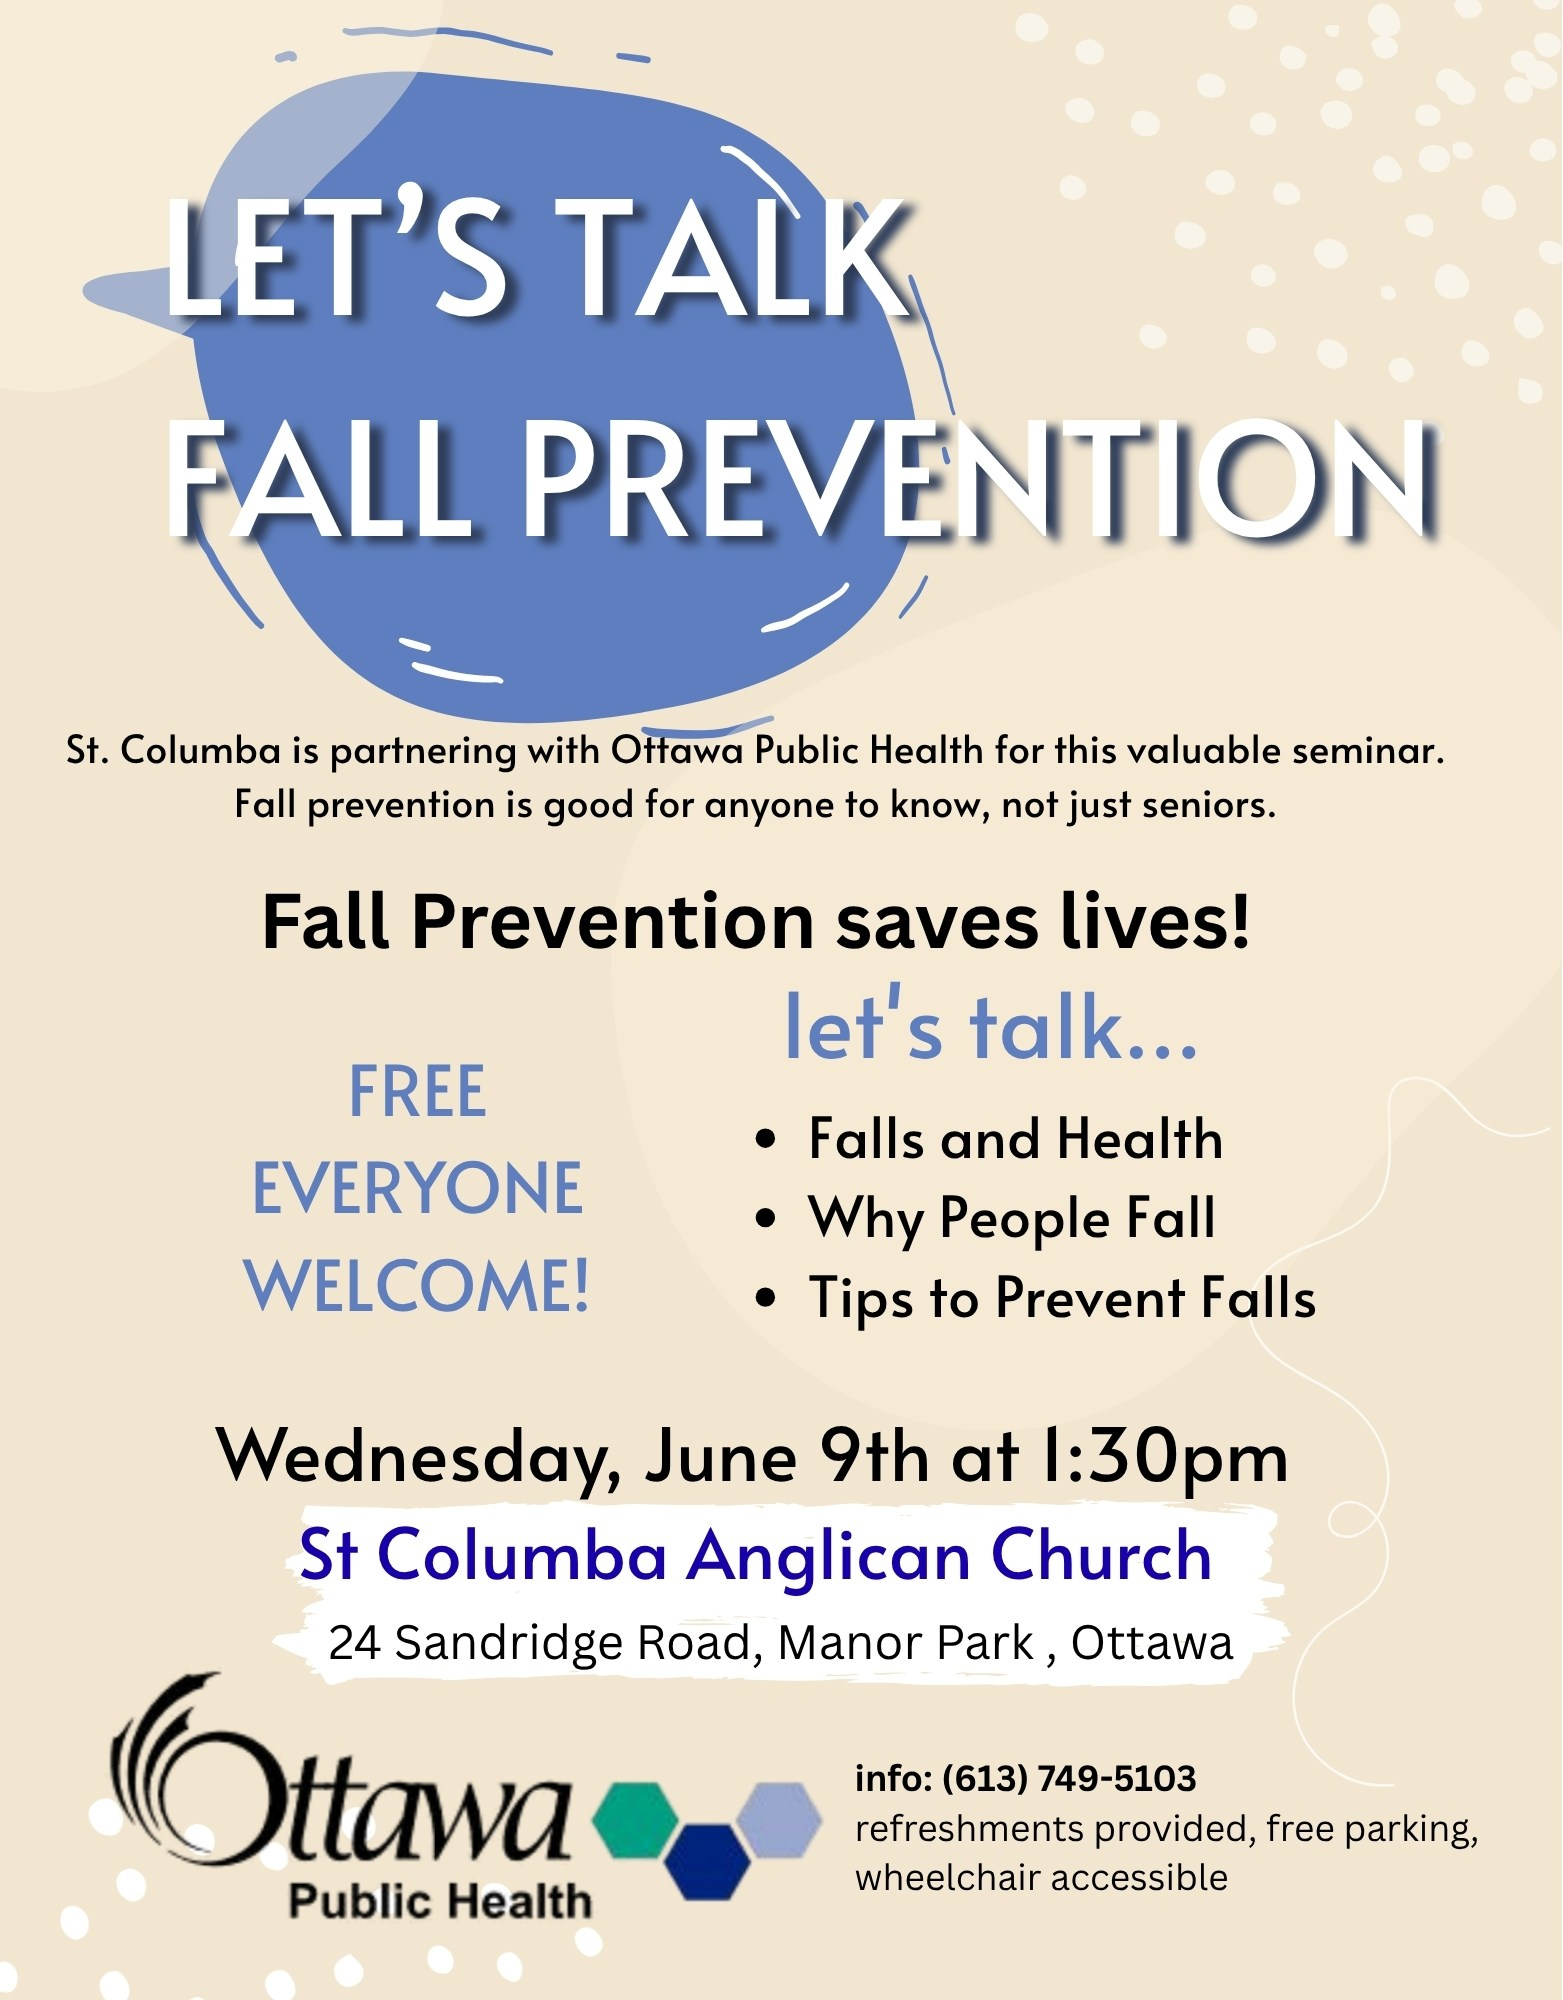
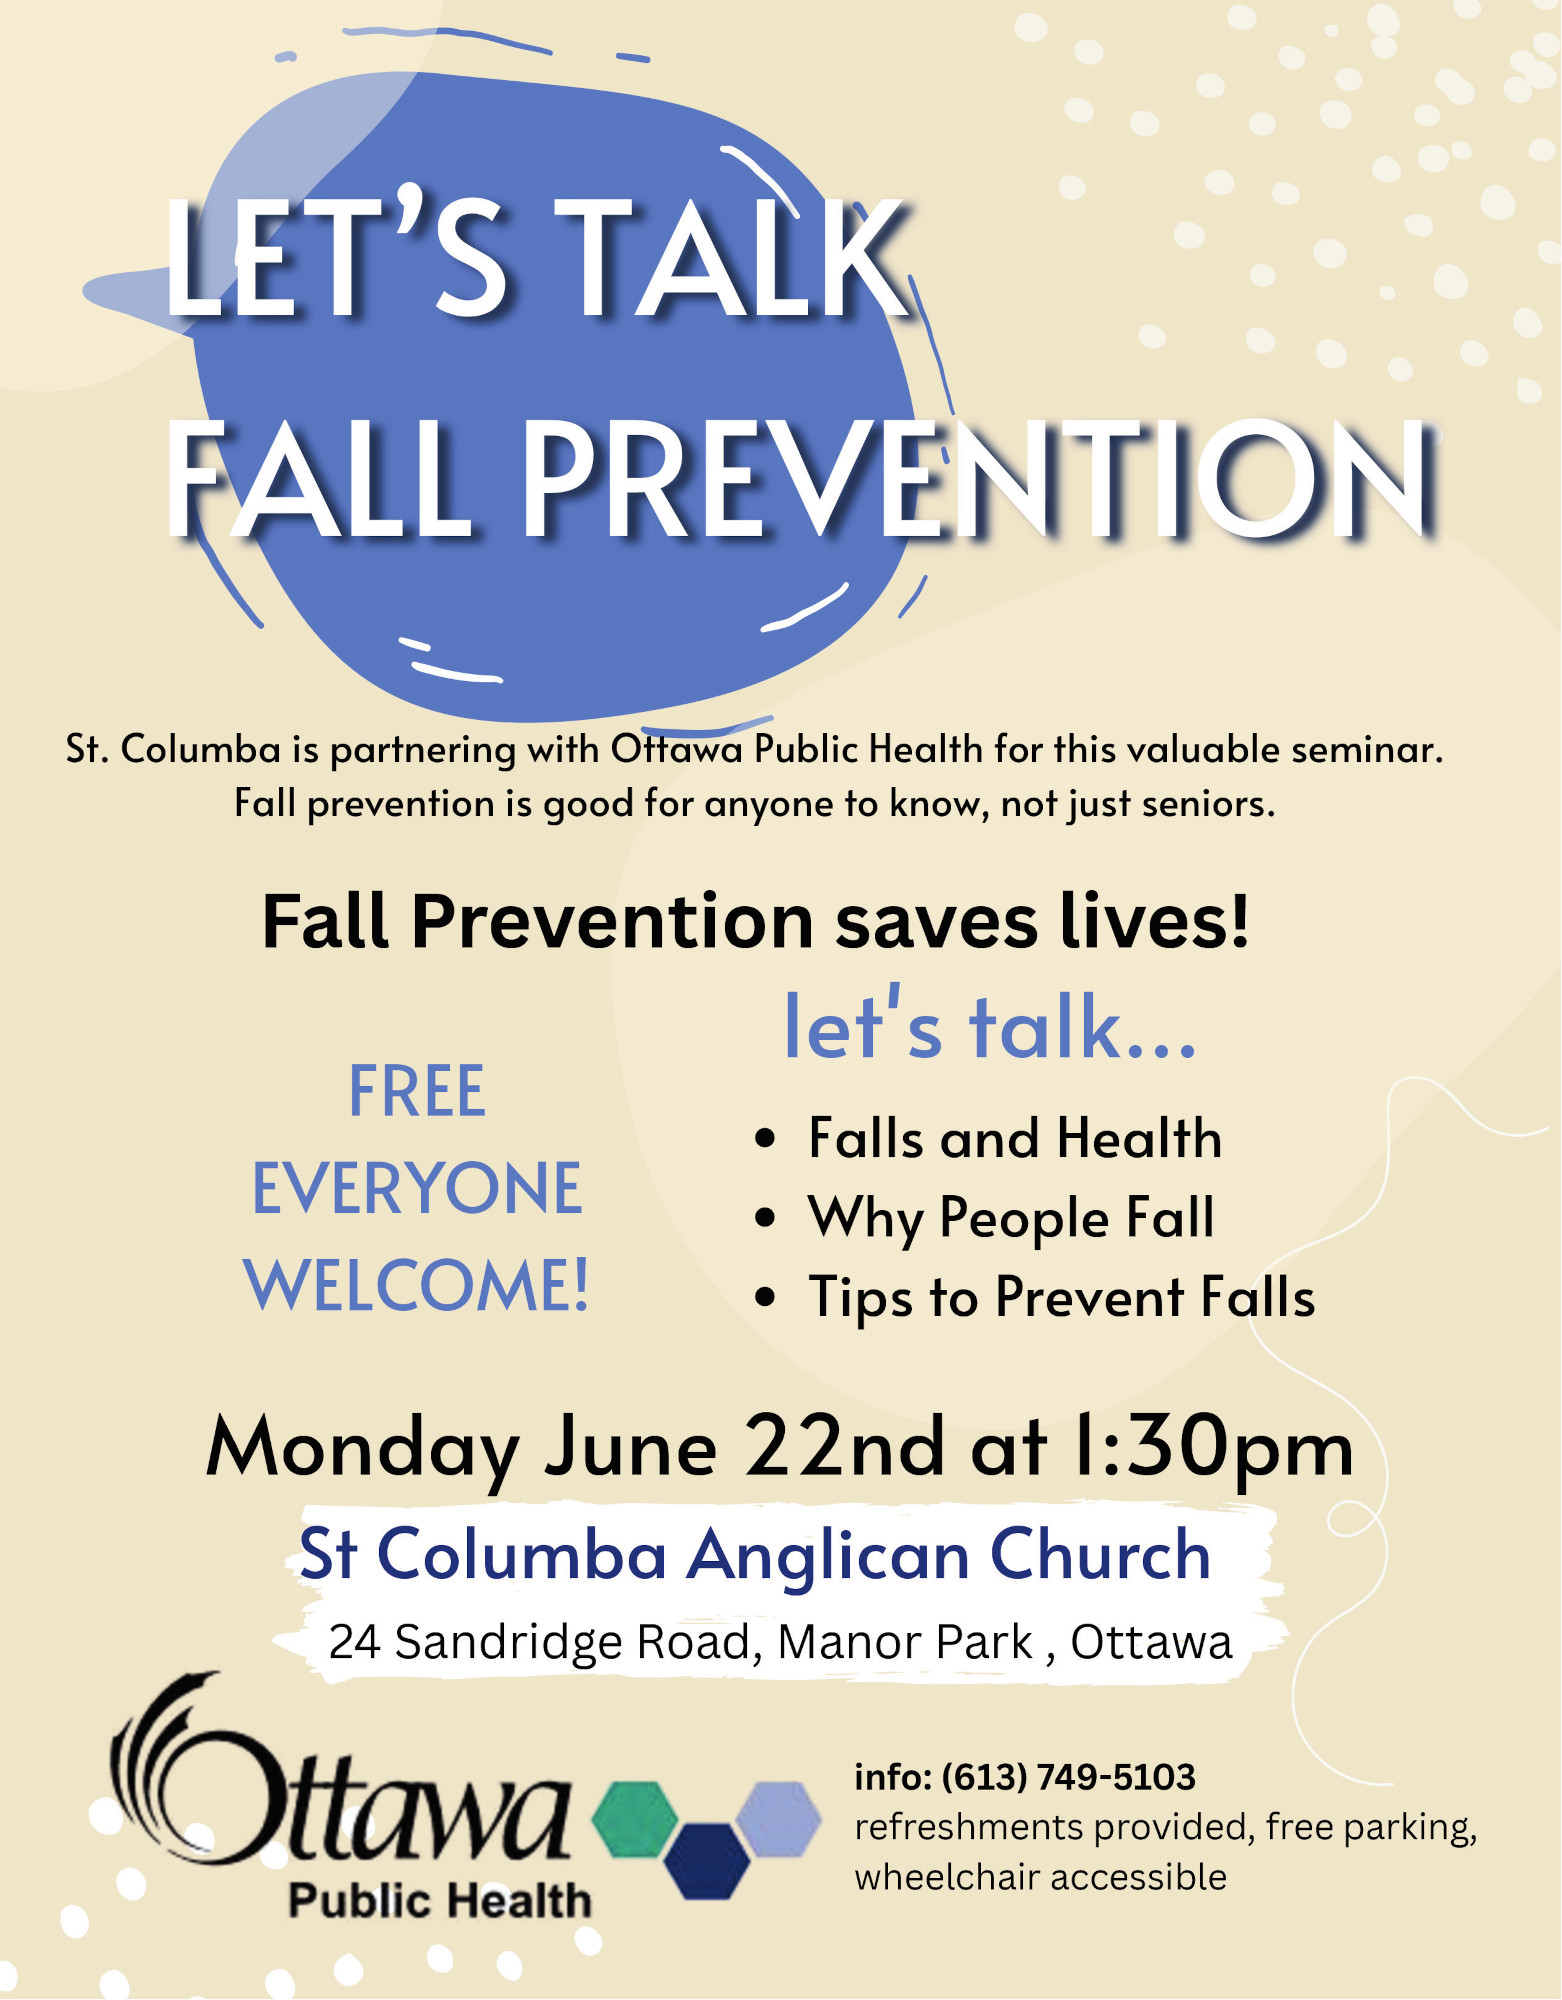
Update for Fall Prevention

diff --git a/_posts/2026-05-28-lets-talk-fall-prevention.md b/_posts/2026-05-28-lets-talk-fall-prevention.md
@@ -20,7 +20,8 @@ Fall Prevension saves lives!  Let's talk...
 * Why People Fall
 * Tips to Prevent Falls
 
-**Wednesday, June 9th at 1:30pm**
+**Monday, June 22nd at 1:30pm**
+(postponed from June 10)
 
 Free!  Everone Welcome!
 
